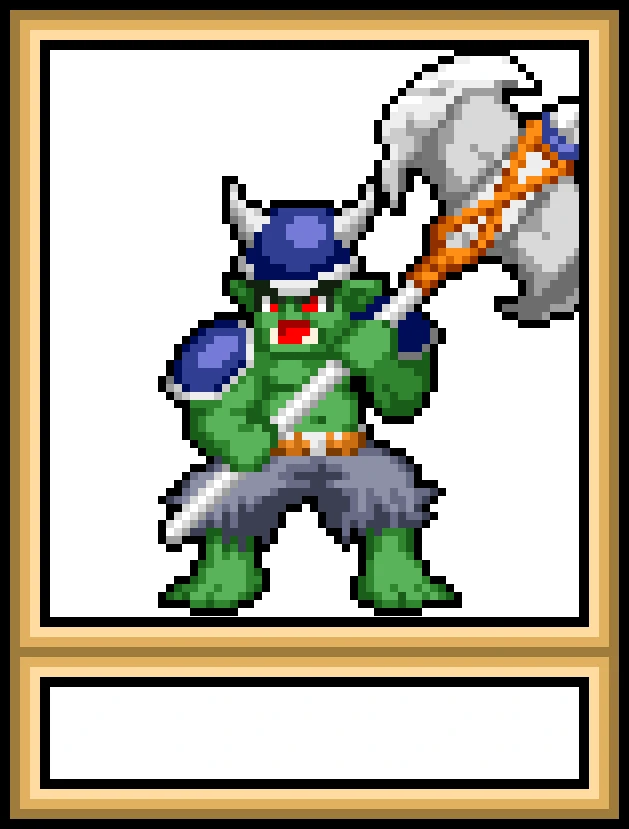
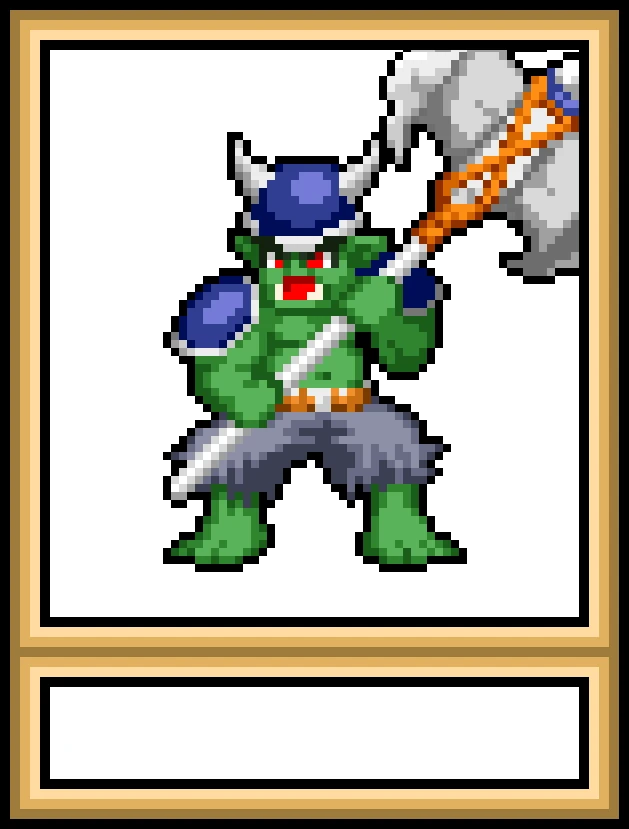
feat: adds background colors to monster cards

Changed region(s): [[0.2417, 0.0603, 0.9364, 0.7539]]

diff --git a/assets/css/style.css b/assets/css/style.css
@@ -6,10 +6,17 @@
     --primary: #fafafa;
     --secondary: #3a3a3a;
     --critical: crimson;
-    --bg-monster-card: red;
     --bg-player-card-front: cyan;
     --bg-player-card-back: pink;
     --bg-color: #353935;
+    --goblin1: #FCB1A6;
+    --goblin2: #B5EF8A;
+    --goblin3: #46B1C9;
+    --skeleton1: #98CE00;
+    --skeleton2: #89A6FB;
+    --skeleton3: #0091AD;
+    --orc: #CE8147;
+    --troll: #D2D5DD;
 }
 
 /* Asterisk wildcard selector to override default styles added by the browser */
@@ -119,7 +126,6 @@ body {
     height: 100%;
     backface-visibility: hidden;
     box-shadow: 0 4px 8px 0 var(--secondary);
-    background-color: var(--bg-monster-card);
     background-size: contain;
 }
 
@@ -146,34 +152,42 @@ body {
 
 /* Backgrounds for the different monsters */
 .monster-goblin1 {
+    background-color: var(--goblin1);
     background-image: url(../images/monster-goblin1.webp);
 }
 
 .monster-goblin2 {
+    background-color: var(--goblin2);
     background-image: url(../images/monster-goblin2.webp);
 }
 
 .monster-goblin3 {
+    background-color: var(--goblin3);
     background-image: url(../images/monster-goblin3.webp);
 }
 
 .monster-skeleton1 {
+    background-color: var(--skeleton1);
     background-image: url(../images/monster-skeleton1.webp);
 }
 
 .monster-skeleton2 {
+    background-color: var(--skeleton2);
     background-image: url(../images/monster-skeleton2.webp);
 }
 
 .monster-skeleton3 {
+    background-color: var(--skeleton3);
     background-image: url(../images/monster-skeleton3.webp);
 }
 
 .monster-orc {
+    background-color: var(--orc);
     background-image: url(../images/monster-orc.webp);
 }
 
 .monster-troll {
+    background-color: var(--troll);
     background-image: url(../images/monster-troll.webp);
 }
 
@@ -434,9 +448,13 @@ body {
         bottom: 1.75rem;
     }
     
-    .player-hp {
-        top: 1.25rem;
-        left: 1.5rem;
+    .monster-ui {
+        bottom: 4.5rem;
+        font-size: 1.2rem;
+    }
+
+    .player-ui {
+        top: 1.5rem;
         font-size: 1.2rem;
     }
 
